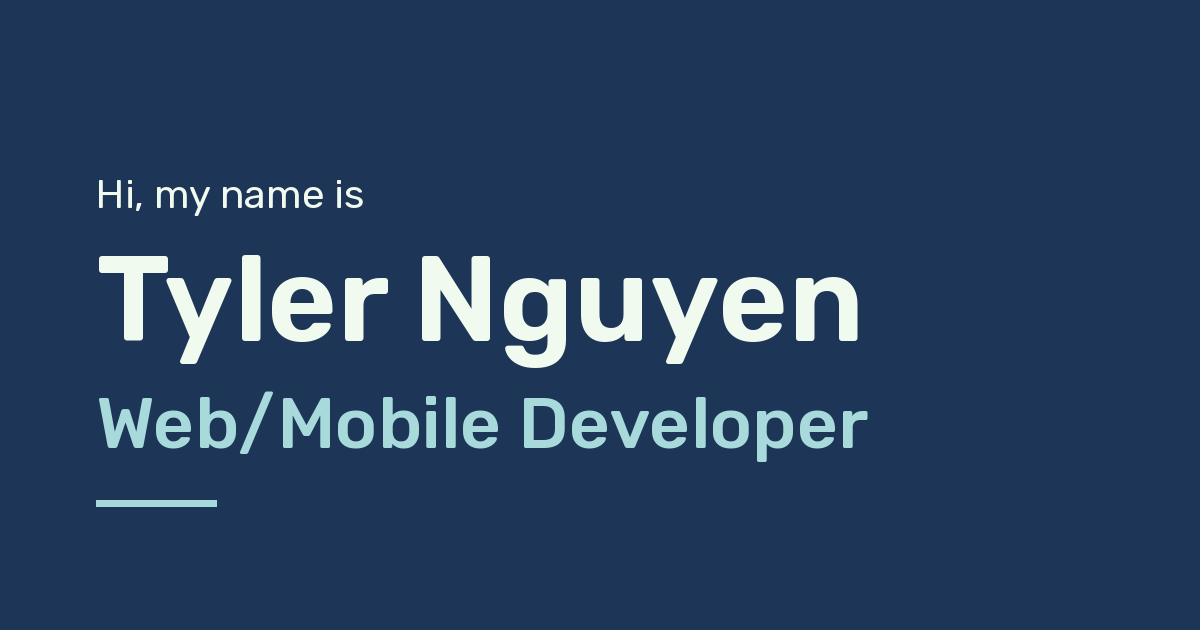
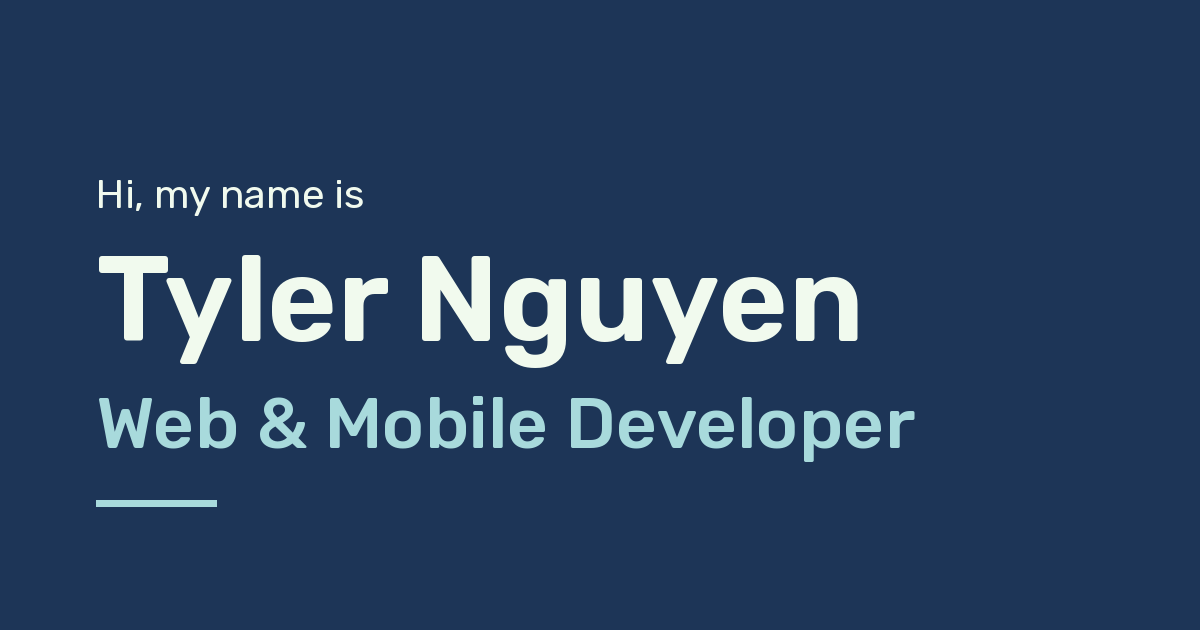
Polish site copy
- Hero: tighter intro; "Web & Mobile Developer" used consistently across
  the page, title, link-preview tags and preview image.
- About: removed the repeated self-introduction, fixed grammar in the
  education paragraph, corrected the timeline wording, and added a line
  on owning work end to end.
- Experience: bullets rewritten to lead with what was built, shipped and
  maintained; shorter for phone screens; same facts and figures as
  before. ICM release work split into its own bullet.
- Tech names corrected (Xcode, Objective-C, Material UI, Redux (Saga,
  Rematch)); en dashes in date ranges; "Front-End Developer".
- Contact labels in sentence case.

Claude-Session: https://claude.ai/code/session_012oSirQp8sTVsvkz5M6oyup

Changed region(s): [[0.185, 0.6032, 0.7708, 0.7238]]

diff --git a/client/src/components/Experience/Tabs/constants.ts b/client/src/components/Experience/Tabs/constants.ts
@@ -3,16 +3,17 @@ import { ExperienceData } from "./types";
 
 export const experienceData: ExperienceData[] = [
   {
-    title: "Front End Developer",
+    title: "Front-End Developer",
     companyName: "Investor Cash Management",
-    dateRange: "Spring 2021 - Present",
+    dateRange: "Spring 2021 – Present",
     description: [
-      "Built, deployed, and distributed multiple web and mobile applications across various clients using React/React Native. Leveraged Appcenter and Jenkins pipeline to maintain releases.",
-      "Improved upon existing features as well as continuously implemented new features, primarily within the scope of financial technology. Utilized Jira Software and Bitbucket to uphold an agile culture.",
+      "Built and shipped multiple web and mobile apps for several clients with React and React Native.",
+      "Maintained releases through App Center and Jenkins pipelines, taking builds from development to distribution.",
+      "Delivered new features and improved existing ones across FinTech products, working in an agile team with Jira and Bitbucket.",
     ],
     tech: [
       { name: "React", icon: Icons.REACT },
-      { name: "Redux - Saga/Rematch", icon: Icons.REDUX },
+      { name: "Redux (Saga, Rematch)", icon: Icons.REDUX },
       { name: "React Native", icon: Icons.REACT },
       { name: "Bootstrap", icon: Icons.BOOTSTRAP },
       { name: "MySQL Workbench", icon: Icons.MYSQL },
@@ -28,15 +29,15 @@ export const experienceData: ExperienceData[] = [
   {
     title: "Web Application Developer Intern",
     companyName: "Robert Bosch, LLC",
-    dateRange: "Summer 2019 - May 2020",
+    dateRange: "Summer 2019 – May 2020",
     description: [
-      "Utilized React JS library and React Native open-source mobile application framework to program and develop internal web applications that support operational efficiency across global branches.",
-      "Facilitated in-depth research to advance progress of new virtual reality (VR) mobile applications for internal use, conducting trial and error testing and quickly isolating technical limitations.",
+      "Developed internal web applications with React and React Native that support operational efficiency across Bosch's global branches.",
+      "Researched and prototyped new virtual reality (VR) mobile apps for internal use, testing approaches to pinpoint technical limitations early.",
     ],
     tech: [
       { name: "React", icon: Icons.REACT },
       { name: "React Native", icon: Icons.REACT },
-      { name: "MaterialUI", icon: Icons.MUI },
+      { name: "Material UI", icon: Icons.MUI },
       { name: "HTML", icon: Icons.HTML },
       { name: "CSS", icon: Icons.CSS },
       { name: "JavaScript", icon: Icons.JS },
@@ -49,13 +50,13 @@ export const experienceData: ExperienceData[] = [
     companyName: "Robert Bosch, LLC",
     dateRange: "Summer 2018",
     description: [
-      "Updated existing application to optimize end user accessibility, converting QR code scanner via Swift and installing new data features that import contact information and produce personalized QR codes.",
-      "Developed new code for existing applications to streamline operational functions while decreasing deployment time, successfully increasing application downloads by 1K+ after launch. ",
+      "Improved an existing app's accessibility, converting its QR code scanner to Swift and adding features to import contact information and generate personalized QR codes.",
+      "Streamlined existing apps and reduced deployment time, increasing downloads by 1,000+ after launch.",
     ],
     tech: [
       { name: "React Native", icon: Icons.REACT },
-      { name: "XCode (iOS)", icon: Icons.XCODE },
-      { name: "ObjC", icon: Icons.OBJC },
+      { name: "Xcode", icon: Icons.XCODE },
+      { name: "Objective-C", icon: Icons.OBJC },
       { name: "Swift", icon: Icons.SWIFT },
     ],
     location: "Mount Prospect, Illinois",

diff --git a/client/src/components/About/About.tsx b/client/src/components/About/About.tsx
@@ -12,34 +12,55 @@ const About = () => {
             About Me
           </h2>
           <p>
-            Hello! My name is Tyler and I enjoy developing code. My interest in
-            programming first began back in 2012 when I decided to take an
-            Introduction Computer Science course as a Freshman in high school.
-            From there, I started to look at the world in a more logical way and
-            knew I could not turn back.
+            I've been hooked on programming since 2012, when I took an
+            Introduction to Computer Science course as a high school freshman.
+            It changed how I approach problems, and I never looked back.
           </p>
           <p>
-            Fast-forward to 2020 and I've attended{" "}
-            <a className="text-link" href="https://www.luc.edu/" target="_blank" rel="noopener noreferrer">
+            In 2020 I earned a Bachelor of Science from{" "}
+            <a
+              className="text-link"
+              href="https://www.luc.edu/"
+              target="_blank"
+              rel="noopener noreferrer"
+            >
               Loyola University Chicago
-            </a>{" "}
-            to earn a Bachelor of Science degree. There I studied Software
-            Engineering and Computer Forensics.
+            </a>
+            , where I studied Software Engineering and Computer Forensics.
           </p>
           <p>
-            Up until today, I've had the honor and privilege of working at{" "}
-            <a className="text-link" href="https://www.bosch.com/" target="_blank" rel="noopener noreferrer">
+            Along the way I've built software at{" "}
+            <a
+              className="text-link"
+              href="https://www.bosch.com/"
+              target="_blank"
+              rel="noopener noreferrer"
+            >
               a global engineering company
-            </a>
-            ,{" "}
-            <a className="text-link" href="https://investorcashmanagement.com/" target="_blank" rel="noopener noreferrer">
+            </a>{" "}
+            and{" "}
+            <a
+              className="text-link"
+              href="https://investorcashmanagement.com/"
+              target="_blank"
+              rel="noopener noreferrer"
+            >
               a FinTech investing start-up
             </a>
-            , and graduating from{" "}
-            <a className="text-link" href="https://www.codingdojo.com/" target="_blank" rel="noopener noreferrer">
+            , and completed{" "}
+            <a
+              className="text-link"
+              href="https://www.codingdojo.com/"
+              target="_blank"
+              rel="noopener noreferrer"
+            >
               a full-stack coding bootcamp
             </a>
             .
+          </p>
+          <p>
+            I like owning my work end to end: building the feature, testing
+            it, and seeing it through to release.
           </p>
         </div>
         <div className="image">

diff --git a/client/public/index.html b/client/public/index.html
@@ -6,7 +6,7 @@
     <title>Tyler Nguyen — Web & Mobile Developer</title>
     <meta
       name="description"
-      content="Tyler Nguyen is a web and mobile developer in Chicago specializing in React and React Native."
+      content="Tyler Nguyen is a Chicago-based web and mobile developer who builds full-stack apps with React and React Native."
     />
     <meta name="theme-color" content="#1d3557" />
     <meta name="color-scheme" content="dark" />
@@ -23,12 +23,12 @@
     <meta property="og:title" content="Tyler Nguyen — Web & Mobile Developer" />
     <meta
       property="og:description"
-      content="Web and mobile developer specializing in React and React Native."
+      content="Chicago-based web and mobile developer building full-stack apps with React and React Native."
     />
     <meta property="og:image" content="<%= siteUrl %>/og-image.png" />
     <meta property="og:image:width" content="1200" />
     <meta property="og:image:height" content="630" />
-    <meta property="og:image:alt" content="Tyler Nguyen, Web/Mobile Developer" />
+    <meta property="og:image:alt" content="Tyler Nguyen, Web & Mobile Developer" />
     <meta name="twitter:card" content="summary_large_image" />
     <% if (siteUrl) { %>
     <meta property="og:url" content="<%= siteUrl %>/" />

diff --git a/client/src/components/Contact/Contact.tsx b/client/src/components/Contact/Contact.tsx
@@ -59,7 +59,7 @@ const Contact = () => {
         <span className="icon" aria-hidden="true">
           <Avatar />
         </span>
-        <span className="text">let's connect!</span>
+        <span className="text">Let's connect!</span>
       </button>
 
       <dialog
@@ -80,7 +80,7 @@ const Contact = () => {
             ×
           </button>
           <div className="content">
-            <h2 id="contact-title">Let's Connect.</h2>
+            <h2 id="contact-title">Let's connect.</h2>
             <ul className="links">
               {links.map(({ icon: LinkIcon, label, href, external }) => {
                 const row = (
@@ -116,7 +116,7 @@ const Contact = () => {
               href={resume}
               download="tylernguyen-resume.pdf"
             >
-              download my resume
+              Download my resume
             </a>
           </div>
         </div>

diff --git a/client/src/components/Banner/Banner.tsx b/client/src/components/Banner/Banner.tsx
@@ -7,11 +7,11 @@ const Banner = () => {
       <div className="box">
         <p className="introduction">Hi, my name is</p>
         <h1 className="name">Tyler Nguyen,</h1>
-        <p className="sub-title">Web/Mobile Developer</p>
+        <p className="sub-title">Web & Mobile Developer</p>
         <p className="description">
-          I enjoy developing full stack applications and specialize in
-          React/React Native. Currently, I'm focused on building accessible
-          FinTech products at{" "}
+          I build full-stack web and mobile apps, specializing in React and
+          React Native. Right now I'm building accessible FinTech products
+          at{" "}
           <a
             className="text-link"
             href="https://investorcashmanagement.com/"
